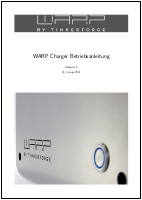
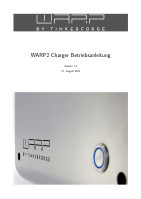
website: Update document thumbnails and web meter image.

diff --git a/warp-charger.com/index.html b/warp-charger.com/index.html
@@ -579,35 +579,35 @@
         <div class="row counters">
             <div class="col-xl-2 col-lg-4 col-6 text-center">
                 <a href="documents/WARP2_Betriebsanleitung.pdf">
-                <img src="img/documents/betriebsanleitung_small.jpg" class="img-fluid" alt="Betriebsanleitung">
-                <p>Betriebsanleitung</p>
+                <img src="img/documents/betriebsanleitung_small.jpg" class="img-fluid img-outline" alt="Betriebsanleitung">
+                <p>Betriebs&shy;anleitung</p>
                 </a>
             </div>
 
             <div class="col-xl-2 col-lg-4 col-6 text-center">
                 <a href="documents/WARP2_Datenblatt_low.pdf">
-                <img src="img/documents/datenblatt_small.jpg" class="img-fluid" alt="Datenblatt">
+                <img src="img/documents/datenblatt_small.jpg" class="img-fluid img-outline" alt="Datenblatt">
                 <p>Datenblatt</p>
                 </a>
             </div>
 
             <div class="col-xl-2 col-lg-4 col-6 text-center">
                 <a href="documents/WARP2_Broschuere_low.pdf">
-                <img src="img/documents/broschuere_small.jpg" class="img-fluid" alt="Broschüre">
+                <img src="img/documents/broschuere_small.jpg" class="img-fluid img-outline" alt="Broschüre">
                 <p>Broschüre</p>
                 </a>
             </div>
 
             <div class="col-xl-2 col-lg-4 col-6 text-center">
                 <a href="documents/WARP2_Konformitaet.pdf">
-                <img src="img/documents/konfirmitaetserklaerung_small.jpg" class="img-fluid" alt="Konformitätserklärung">
-                <p>Konformitätserklärung</p>
+                <img src="img/documents/konfirmitaetserklaerung_small.jpg" class="img-fluid img-outline" alt="Konformitätserklärung">
+                <p>Konformitäts&shy;erklärung</p>
                 </a>
             </div>
 
             <div class="col-xl-2 col-lg-4 col-6 text-center">
                 <a href="documents/WARP2_Bohrschablone.pdf">
-                <img src="img/documents/bohrschablone_small.png" class="img-fluid" alt="Bohrschablone">
+                <img src="img/documents/bohrschablone_small.png" class="img-fluid img-outline" alt="Bohrschablone">
                 <p>Bohrschablone</p>
                 </a>
             </div>

diff --git a/warp-charger.com/css/style.css b/warp-charger.com/css/style.css
@@ -1076,6 +1076,12 @@ body.mobile-nav-active #mobile-nav-toggle {
   margin: 0 2px;
 }
 
+.img-outline {
+    border: black;
+    border-style: solid;
+    border-width: 1px;
+}
+
 /* Contact Section
 --------------------------------*/
 
